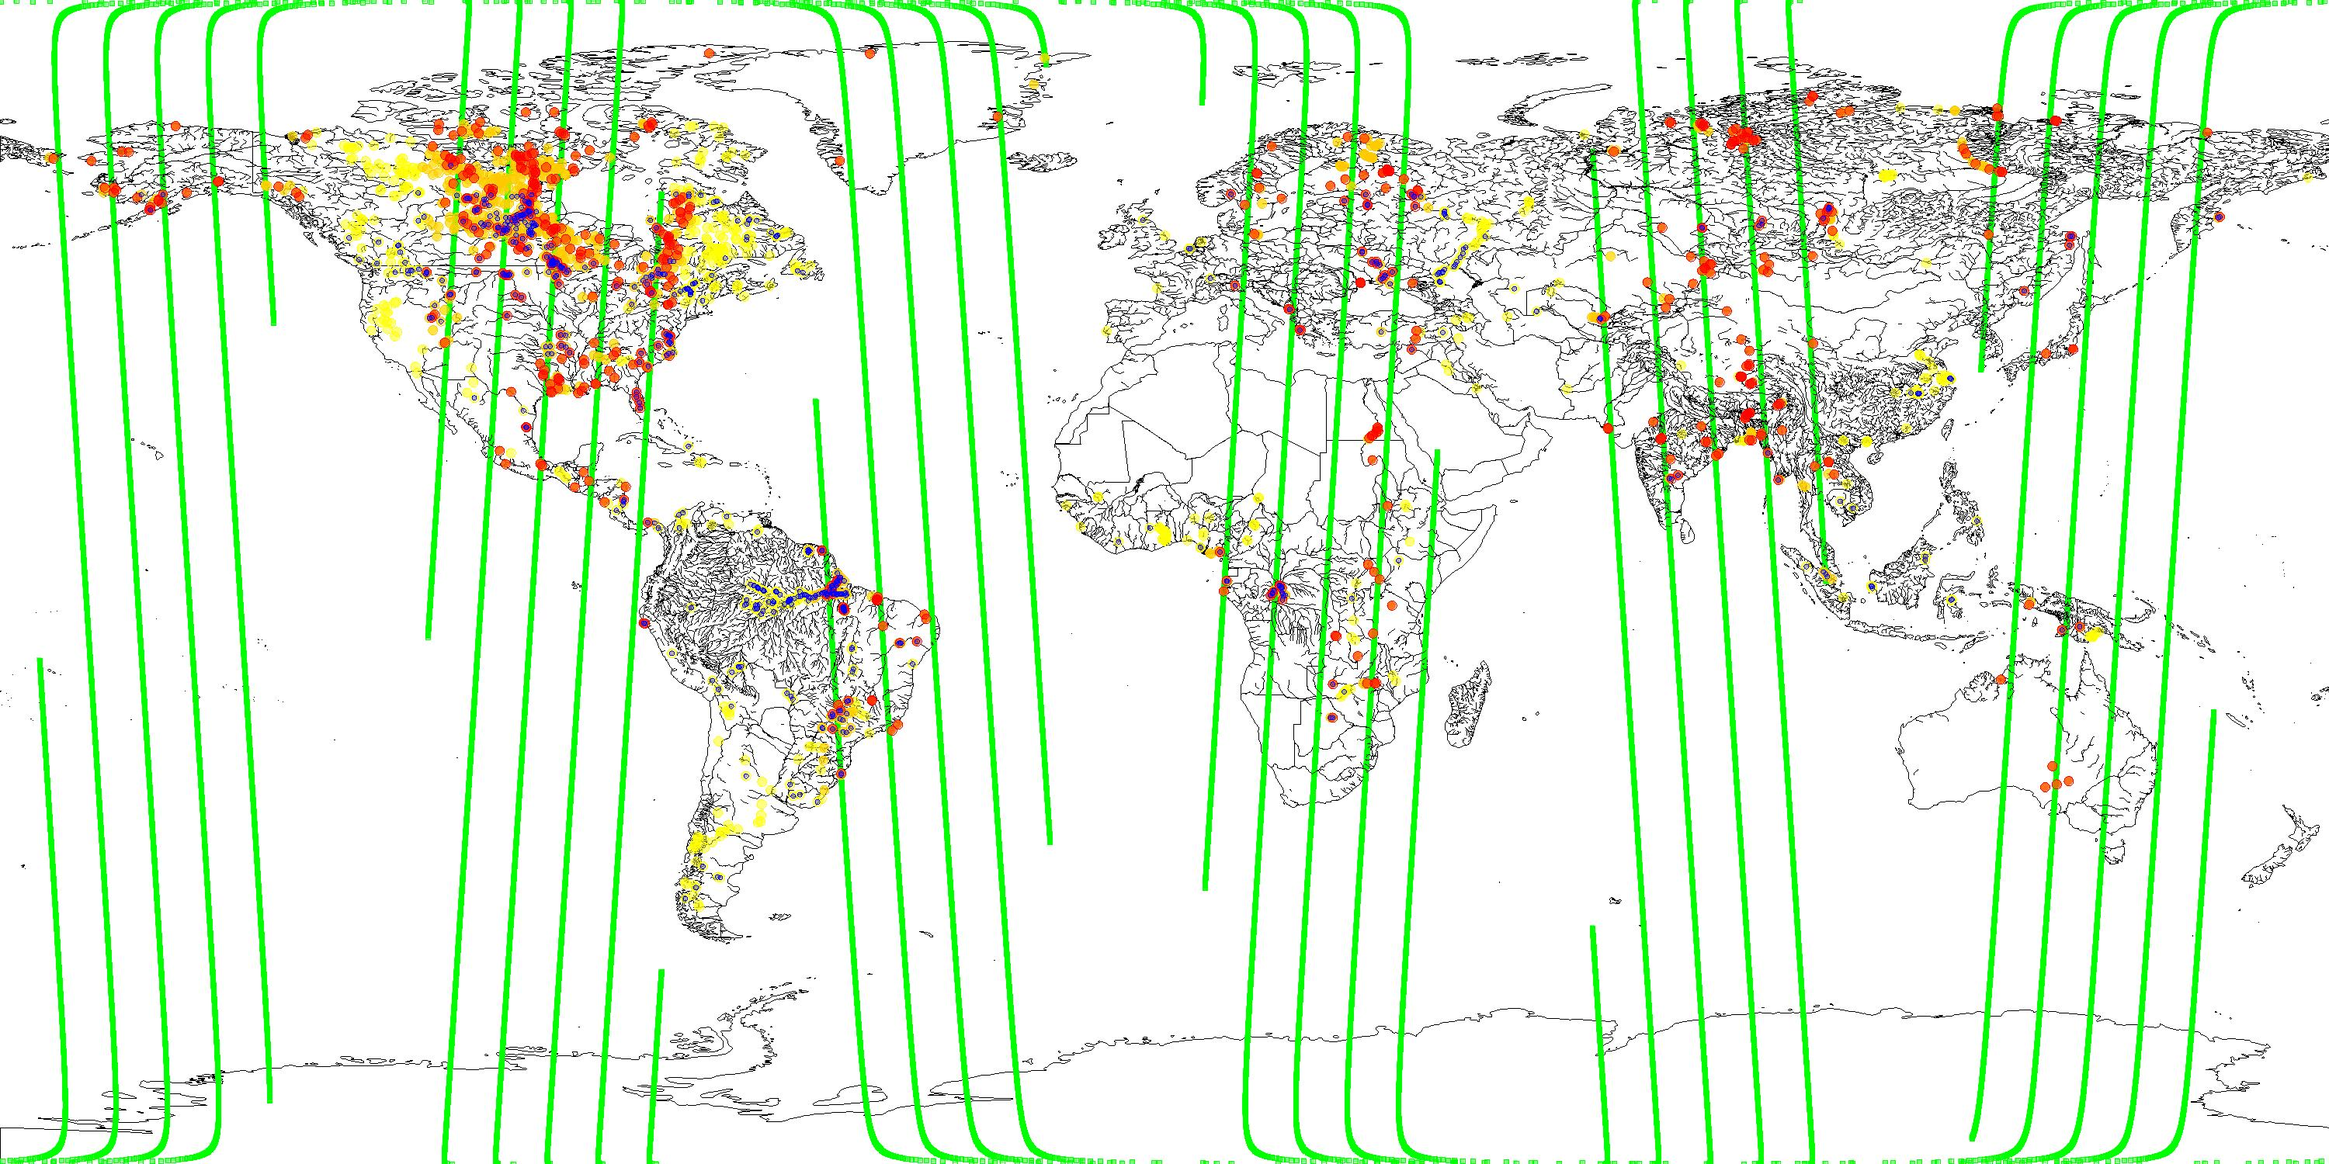
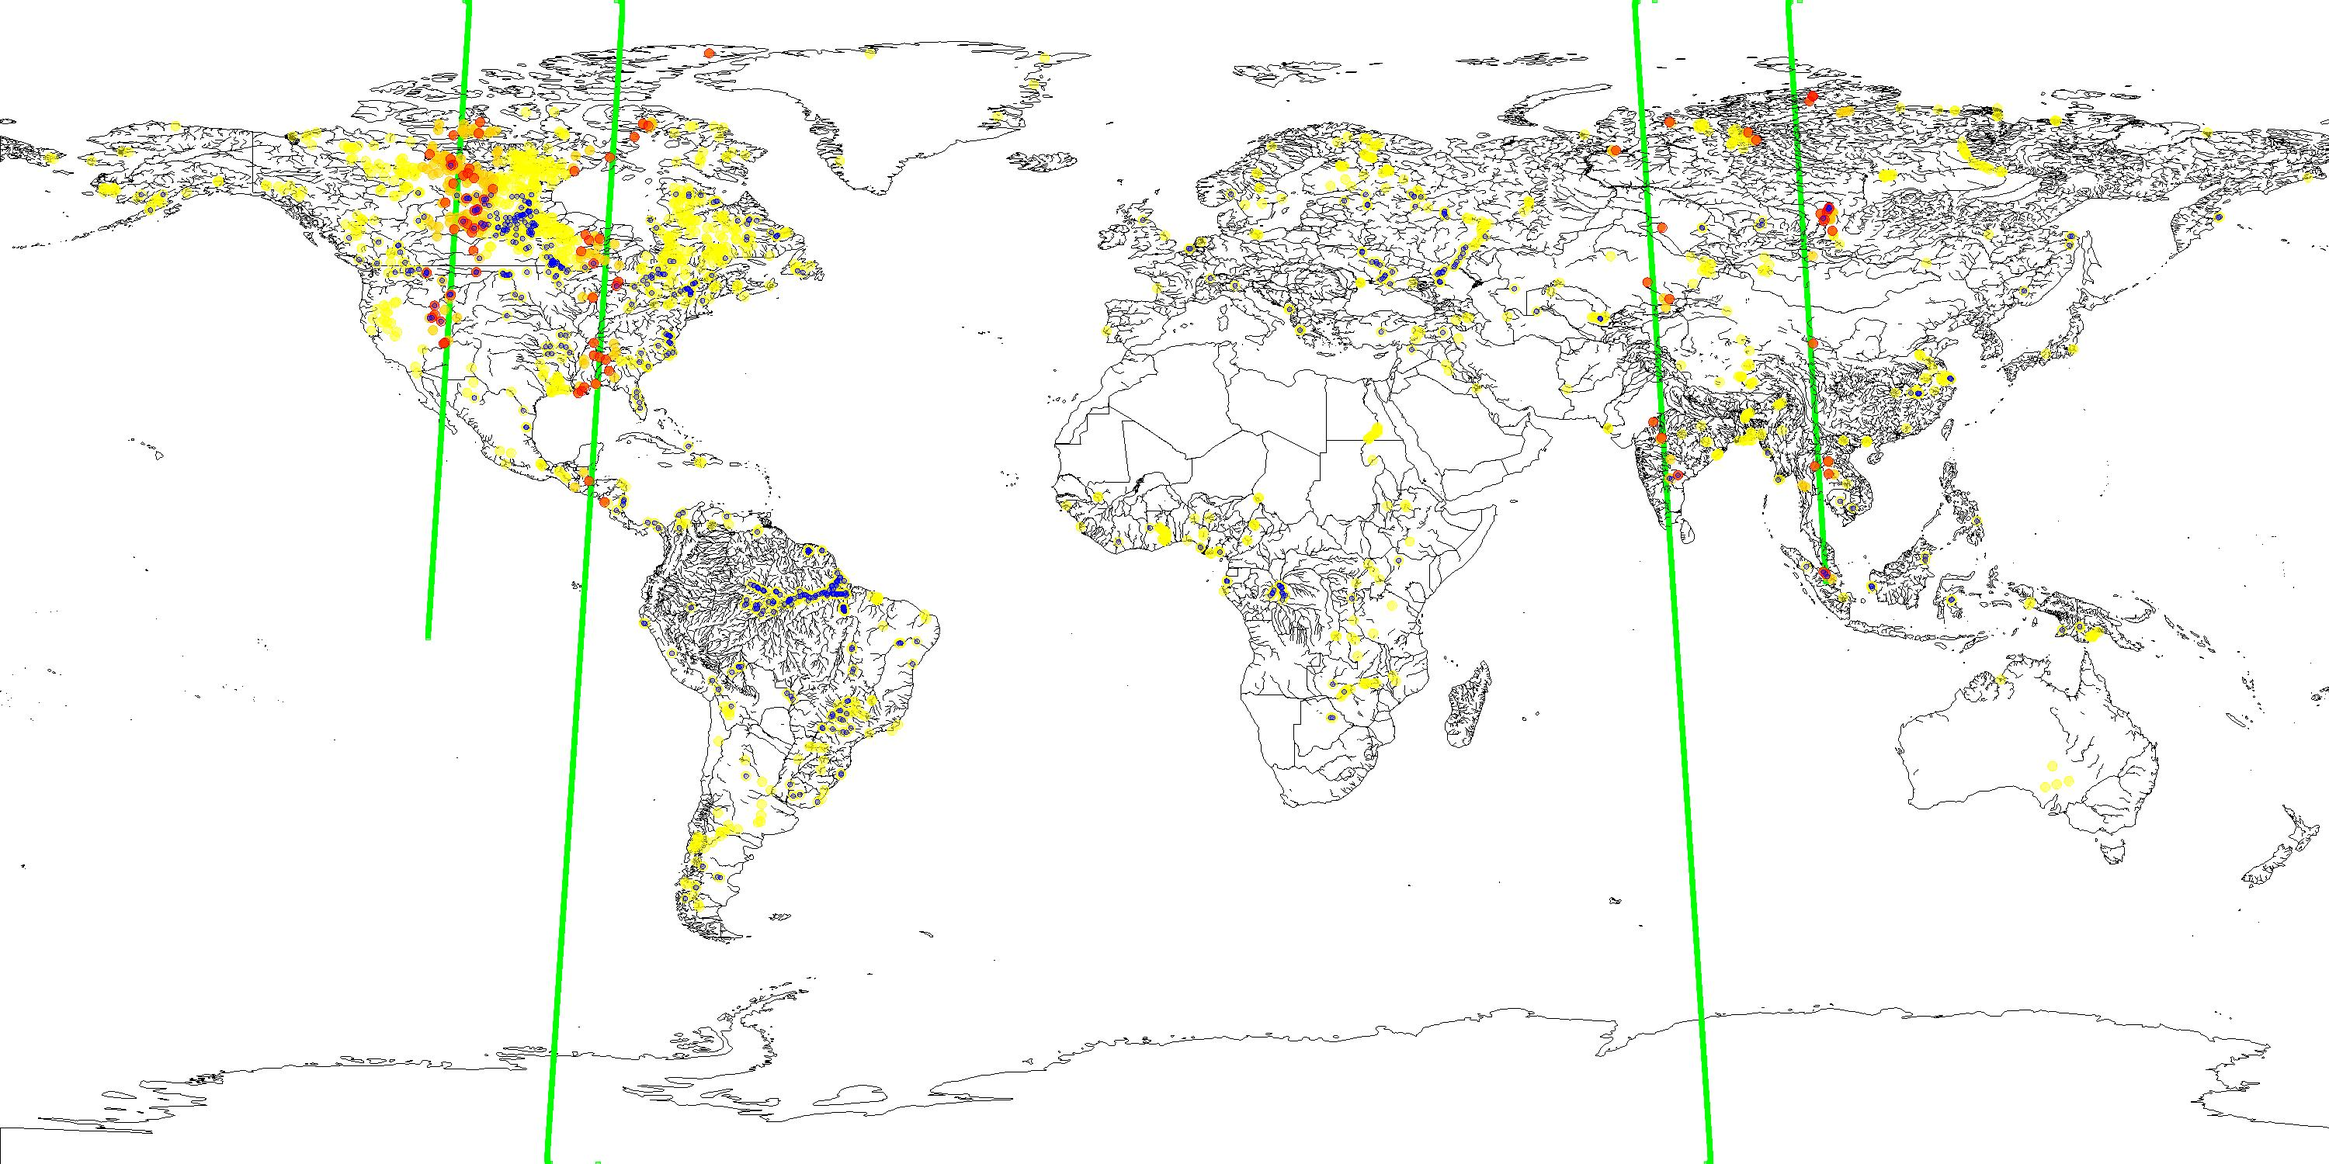
Modified SMDP to work with rain problem

diff --git a/orekit/src/main/java/seakers/orekit/SMDPPlanner.java b/orekit/src/main/java/seakers/orekit/SMDPPlanner.java
@@ -1,0 +1,208 @@
+package seakers.orekit;
+
+import org.orekit.bodies.GeodeticPoint;
+import org.orekit.frames.TopocentricFrame;
+import org.orekit.time.AbsoluteDate;
+import seakers.orekit.SMDP.ActionResult;
+import seakers.orekit.SMDP.SatelliteAction;
+import seakers.orekit.SMDP.SatelliteState;
+import seakers.orekit.SMDP.StateAction;
+import seakers.orekit.analysis.Record;
+import seakers.orekit.coverage.access.TimeIntervalArray;
+import seakers.orekit.object.Satellite;
+
+import java.util.*;
+
+public class SMDPPlanner {
+    private ArrayList<Observation> results;
+    private Satellite satellite;
+    private Collection<Record<String>> groundTrack;
+    private double duration;
+    private Map<Double,Map<GeodeticPoint,Double>> covPointRewards;
+    private Map<TopocentricFrame, TimeIntervalArray> sortedGPAccesses;
+    private TimeIntervalArray downlinks;
+    private AbsoluteDate startDate;
+    private double gamma;
+    private int dSolveInit;
+    private Map<GeodeticPoint,Double> latestRewardGrid;
+
+    public SMDPPlanner(Satellite satellite, Map<TopocentricFrame, TimeIntervalArray> sortedGPAccesses, TimeIntervalArray downlinks, AbsoluteDate startDate, Map<Double,Map<GeodeticPoint,Double>> covPointRewards, Collection<Record<String>> groundTrack, double duration) {
+        this.satellite = satellite;
+        this.sortedGPAccesses = sortedGPAccesses;
+        this.downlinks = downlinks;
+        this.startDate = startDate;
+        this.covPointRewards = covPointRewards;
+        this.groundTrack = groundTrack;
+        this.duration = duration;
+        this.gamma = 0.999;
+        this.dSolveInit = 1;
+        ArrayList<GeodeticPoint> initialImages = new ArrayList<>();
+        ArrayList<StateAction> stateActions = forwardSearch(new SatelliteState(0,0,initialImages));
+        ArrayList<Observation> observations = new ArrayList<>();
+        for (StateAction stateAction : stateActions) {
+            Observation newObs = new Observation(stateAction.getA().getLocation(),stateAction.getA().gettStart(),stateAction.getA().gettEnd(),stateAction.getA().getReward());
+            observations.add(newObs);
+        }
+        results = observations;
+    }
+
+    public ActionResult SelectAction(SatelliteState s, int dSolve){
+        if (dSolve == 0) {
+            return new ActionResult(null,0);
+        }
+        ActionResult res = new ActionResult(null,Double.NEGATIVE_INFINITY);
+        SatelliteState sCopy = new SatelliteState(s.getT(),s.gettPrevious(),s.getImages());
+        ArrayList<SatelliteAction> feasibleActions = getActionSpace(sCopy);
+        for (int a = 0; a < feasibleActions.size(); a++) {
+            double value = 0;
+            value = rewardFunction(sCopy,feasibleActions.get(a),getIncidenceAngle(feasibleActions.get(a)));
+            SatelliteState tempSatelliteState = transitionFunction(sCopy,feasibleActions.get(a));
+            ActionResult tempRes = SelectAction(tempSatelliteState,dSolve-1);
+            if(feasibleActions.get(a).gettStart()-sCopy.getT() < 0) {
+                System.out.println("time travel");
+            }
+            value = value + Math.pow(gamma,feasibleActions.get(a).gettStart()-sCopy.getT())*tempRes.getV();
+            if (value > res.getV()) {
+                res = new ActionResult(feasibleActions.get(a),value);
+            }
+        }
+        return res;
+    }
+    public ArrayList<StateAction> forwardSearch(SatelliteState initialState) {
+        ArrayList<StateAction> resultList = new ArrayList<>();
+        latestRewardGrid = covPointRewards.get(0.0);
+        ActionResult initRes = SelectAction(initialState,dSolveInit);
+        SatelliteState newSatelliteState = transitionFunction(initialState,initRes.getA());
+        resultList.add(new StateAction(initialState,initRes.getA()));
+        double value = initRes.getV();
+        double initReward = rewardFunction(newSatelliteState,initRes.getA(),getIncidenceAngle(initRes.getA()));
+        double totalScore = initReward;
+        initRes.getA().setReward(initReward);
+        System.out.println(newSatelliteState.getT());
+        System.out.println(totalScore);
+        System.out.println(resultList.size());
+        System.out.println(newSatelliteState.getImages());
+        while(value != Double.NEGATIVE_INFINITY) {
+            ActionResult res = SelectAction(newSatelliteState,dSolveInit);
+            if(res.getA()==null) {
+                break;
+            }
+            double reward = rewardFunction(newSatelliteState,res.getA(),getIncidenceAngle(res.getA()));
+            res.getA().setReward(reward);
+            totalScore = totalScore + reward;
+            newSatelliteState = transitionFunction(newSatelliteState,res.getA());
+            System.out.println(newSatelliteState.getT());
+            resultList.add(new StateAction(newSatelliteState,res.getA()));
+            value = res.getV();
+            System.out.println(totalScore);
+            System.out.println(resultList.size());
+            System.out.println(newSatelliteState.getImages());
+        }
+        return resultList;
+    }
+
+    public double rewardFunction(SatelliteState s, SatelliteAction a, double incidenceAngle){
+        GeodeticPoint gp = a.getLocation();
+        ArrayList<GeodeticPoint> newImageSet = s.getImages();
+        double score = 0;
+        if(!newImageSet.contains(gp)) {
+            score = latestRewardGrid.get(gp);
+            score = score*(1-incidenceAngle);
+            score = score*Math.pow(gamma,a.gettStart()-s.getT());
+        }
+        return score;
+    }
+
+    public SatelliteState transitionFunction(SatelliteState s, SatelliteAction a) {
+        double t = a.gettStart()+1;
+        double tPrevious = s.getT();
+        GeodeticPoint location = a.getLocation();
+        ArrayList<GeodeticPoint> newImageSet = (ArrayList<GeodeticPoint>) s.getImages().clone();
+        if(!s.getImages().contains(location)) {
+            newImageSet.add(location);
+        }
+        SatelliteState newS = new SatelliteState(t,tPrevious,newImageSet);
+        return newS;
+    }
+    public ArrayList<SatelliteAction> getActionSpace(SatelliteState s) {
+        double currentTime = s.getT();
+        double allowableTime = 15;
+        boolean satisfied = false;
+        ArrayList<SatelliteAction> possibleActions = new ArrayList<>();
+        while(!satisfied) {
+            for (TopocentricFrame tf : sortedGPAccesses.keySet()) {
+                double[] riseandsets = sortedGPAccesses.get(tf).getRiseAndSetTimesList();
+                for (int j = 0; j < riseandsets.length; j = j + 2) {
+                    if (currentTime < riseandsets[j] && riseandsets[j] < currentTime+allowableTime) {
+                        SatelliteAction action = new SatelliteAction(riseandsets[j], riseandsets[j + 1], tf.getPoint());
+                        possibleActions.add(action);
+                    }
+                }
+            }
+            if(possibleActions.size() < 5 && currentTime+allowableTime < 86400) {
+                allowableTime = allowableTime + 15;
+            } else {
+                satisfied = true;
+            }
+        }
+        return possibleActions;
+    }
+    public double getIncidenceAngle(SatelliteAction a) {
+        Map<Double, GeodeticPoint> sspMap = new HashMap<>();
+        GeodeticPoint point = a.getLocation();
+        double setTime = a.gettEnd();
+        double riseTime = a.gettStart();
+        for (Record<String> ind : groundTrack) {
+            String rawString = ind.getValue();
+            AbsoluteDate date = ind.getDate();
+            String[] splitString = rawString.split(",");
+            double latitude = Double.parseDouble(splitString[0]);
+            double longitude = Double.parseDouble(splitString[1]);
+            GeodeticPoint ssp = new GeodeticPoint(Math.toRadians(latitude),Math.toRadians(longitude),0);
+            double elapsedTime = date.durationFrom(startDate);
+            sspMap.put(elapsedTime,ssp);
+        }
+        double[] times = linspace(riseTime,setTime,(int)(setTime-riseTime));
+        if(times.length<2) {
+            times = new double[]{riseTime, setTime};
+        }
+
+        double closestDist = 100000000000000000.0;
+        for (double time : times) {
+            double closestTime = 100 * 24 * 3600; // 100 days
+            GeodeticPoint closestPoint = null;
+            for (Double sspTime : sspMap.keySet()) {
+                if (Math.abs(sspTime - time) < closestTime) {
+                    closestTime = Math.abs(sspTime - time);
+                    closestPoint = sspMap.get(sspTime);
+                    double dist = Math.sqrt(Math.pow(LLAtoECI(closestPoint)[0] - LLAtoECI(point)[0], 2) + Math.pow(LLAtoECI(closestPoint)[1] - LLAtoECI(point)[1], 2) + Math.pow(LLAtoECI(closestPoint)[2] - LLAtoECI(point)[2], 2));
+                    if (dist < closestDist) {
+                        closestDist = dist;
+                    }
+                }
+            }
+        }
+        return Math.atan2(closestDist,(satellite.getOrbit().getA()-6370000)/1000);
+    }
+
+    public double[] LLAtoECI(GeodeticPoint point) {
+        double re = 6370;
+        double x = re * Math.cos(point.getLatitude()) * Math.cos(point.getLongitude());
+        double y = re * Math.cos(point.getLatitude()) * Math.sin(point.getLongitude());
+        double z = re * Math.sin(point.getLatitude());
+        double[] result = {x,y,z};
+        return result;
+    }
+
+    public double[] linspace(double min, double max, int points) {
+        double[] d = new double[points];
+        for (int i = 0; i < points; i++){
+            d[i] = min + i * (max - min) / (points - 1);
+        }
+        return d;
+    }
+
+    public ArrayList<Observation> getResults() {
+        return results;
+    }
+}

diff --git a/orekit/src/main/java/seakers/orekit/XPlanner.java b/orekit/src/main/java/seakers/orekit/XPlanner.java
@@ -201,18 +201,22 @@ public class XPlanner {
         OrekitConfig.end();
         ArrayList<ArrayList<Observation>> individualPlans = new ArrayList<>();
         ArrayList<Observation> allObservations = new ArrayList<>();
+
         for (Satellite imager : imagers) {
             Map<TopocentricFrame, TimeIntervalArray> sortedGPAccesses = satelliteGPContacts.get(imager);
             TimeIntervalArray downlinks = downlinkOpps.get(imager);
-            //ArrayList<Observation> planOutput = greedyPlanner(imager,sortedGPAccesses,downlinks,startDate,covPointRewards,getGroundTrack(imager.getOrbit(),duration,startDate));
-            ArrayList<Observation> planOutput = smarterGreedyPlanner(imager,sortedGPAccesses,downlinks,startDate,covPointRewards,getGroundTrack(imager.getOrbit(),duration,startDate),duration);
-            //ArrayList<Observation> planOutput = nadirEval(imager,sortedGPAccesses,downlinks,startDate,covPointRewards,getGroundTrack(imager.getOrbit(),duration,startDate));
-            individualPlans.add(planOutput);
-            allObservations.addAll(planOutput);
+            Collection<Record<String>> groundTrack = getGroundTrack(imager.getOrbit(),duration,startDate);
+            SMDPPlanner smdpPlanner = new SMDPPlanner(imager,sortedGPAccesses,downlinks,startDate,covPointRewards,groundTrack,duration);
+            ArrayList<Observation> smdpOutput = smdpPlanner.getResults();
+            //ArrayList<Observation> planOutput = greedyPlanner(imager,sortedGPAccesses,downlinks,startDate,covPointRewards,groundTrack,);
+            //ArrayList<Observation> planOutput = smarterGreedyPlanner(imager,sortedGPAccesses,downlinks,startDate,covPointRewards,groundTrack,duration);
+            //ArrayList<Observation> planOutput = nadirEval(imager,sortedGPAccesses,downlinks,startDate,covPointRewards,groundTrack);
+            individualPlans.add(smdpOutput);
+            allObservations.addAll(smdpOutput);
         }
         ArrayList<GeodeticPoint> observedGPs = new ArrayList<>();
         for(Observation obs : allObservations) {
-            observedGPs.add(obs.getObservationPoint().getPoint());
+            observedGPs.add(obs.getObservationPoint());
             System.out.println(obs.toString());
         }
         processGroundTracks(imagers,greedyPlannerFilePath+"groundtracks.shp",startDate,duration);
@@ -330,7 +334,7 @@ public class XPlanner {
             }
             recentTFs.add(bestTF);
             totalreward = totalreward + maximum;
-            Observation obs = new Observation(bestTF,bestRiseTime,bestSetTime,maximum);
+            Observation obs = new Observation(bestTF.getPoint(),bestRiseTime,bestSetTime,maximum);
             observations.add(obs);
             currentTime = bestSetTime;
             System.out.println(energy/3600);
@@ -360,7 +364,7 @@ public class XPlanner {
             double riseTime = sortedAccesses.get(tf).getRiseAndSetTimesList()[0];
             double setTime = sortedAccesses.get(tf).getRiseAndSetTimesList()[1];
             double reward = rewardFunction(tf,getIncidenceAngle(tf.getPoint(),riseTime,setTime,startDate,satellite,groundTrack),latestRewardGrid);
-            Observation obs = new Observation(tf,riseTime,setTime,reward);
+            Observation obs = new Observation(tf.getPoint(),riseTime,setTime,reward);
             observations.add(obs);
             totalreward = totalreward + reward;
         }
@@ -454,7 +458,7 @@ public class XPlanner {
             }
             recentTFs.add(bestTF);
             totalreward = totalreward + trueReward;
-            Observation obs = new Observation(bestTF,bestRiseTime,bestSetTime,trueReward);
+            Observation obs = new Observation(bestTF.getPoint(),bestRiseTime,bestSetTime,trueReward);
             observations.add(obs);
             currentTime = bestSetTime;
             System.out.println(energy/3600);
@@ -926,13 +930,13 @@ public class XPlanner {
             map.addLayer(generatePointLayer(overlapFilePath+"possible.shp",Color.ORANGE,0.5f,12.0f));
             map.addLayer(generatePointLayer(overlapFilePath+"observed.shp",Color.RED,0.5f,12.0f));
             map.addLayer(generatePointLayer(overlapFilePath+"rainupdated.shp",Color.BLUE,0.3f,6.0f));
-            File rasterFile = new File("rainfall.hdf5");
-            AbstractGridFormat format = GridFormatFinder.findFormat(rasterFile);
-            // this is a bit hacky but does make more geotiffs work
-            GridCoverage2DReader reader = format.getReader(rasterFile);
-            Style rasterStyle = createGreyscaleStyle(1);
-            Layer rasterLayer = new GridReaderLayer(reader, rasterStyle);
-            map.addLayer(rasterLayer);
+//            File rasterFile = new File("./rainfall.hdf5");
+//            AbstractGridFormat format = GridFormatFinder.findFormat(rasterFile);
+//            // this is a bit hacky but does make more geotiffs work
+//            GridCoverage2DReader reader = format.getReader(rasterFile);
+//            Style rasterStyle = createGreyscaleStyle(1);
+//            Layer rasterLayer = new GridReaderLayer(reader, rasterStyle);
+//            map.addLayer(rasterLayer);
 
             JMapFrame.showMap(map);
             saveImage(map, "planner_map.jpeg",3000);

diff --git a/orekit/src/main/java/seakers/orekit/Observation.java b/orekit/src/main/java/seakers/orekit/Observation.java
@@ -1,13 +1,13 @@
 package seakers.orekit;
 
-import org.orekit.frames.TopocentricFrame;
+import org.orekit.bodies.GeodeticPoint;
 
 public class Observation {
-    private TopocentricFrame observationPoint;
+    private GeodeticPoint observationPoint;
     private double observationStart;
     private double observationEnd;
     private double observationReward;
-    public Observation(TopocentricFrame observationPoint, double observationStart, double observationEnd, double observationReward) {
+    public Observation(GeodeticPoint observationPoint, double observationStart, double observationEnd, double observationReward) {
         this.observationPoint = observationPoint;
         this.observationStart = observationStart;
         this.observationEnd = observationEnd;
@@ -22,7 +22,7 @@ public class Observation {
     public double getObservationReward() {
         return observationReward;
     }
-    public TopocentricFrame getObservationPoint() {
+    public GeodeticPoint getObservationPoint() {
         return observationPoint;
     }
     public void setObservationStart(double observationStart) {
@@ -34,11 +34,11 @@ public class Observation {
     public void setObservationReward(double observationReward) {
         this.observationReward = observationReward;
     }
-    public void setObservationPoint(TopocentricFrame observationPoint) {
+    public void setObservationPoint(GeodeticPoint observationPoint) {
         this.observationPoint = observationPoint;
     }
     public String toString() {
-        return this.observationPoint.getPoint().toString()+", Observation Start: "+this.observationStart+", Observation End: "+this.observationEnd+", Observation Reward: "+this.observationReward;
+        return this.observationPoint.toString()+", Observation Start: "+this.observationStart+", Observation End: "+this.observationEnd+", Observation Reward: "+this.observationReward;
     }
 
 }

diff --git a/orekit/src/main/java/seakers/orekit/SMDP/SatelliteAction.java b/orekit/src/main/java/seakers/orekit/SMDP/SatelliteAction.java
@@ -6,12 +6,18 @@ public class SatelliteAction {
     private double tStart;
     private double tEnd;
     private GeodeticPoint location;
+    private double reward;
     public SatelliteAction (double tStart, double tEnd, GeodeticPoint location) {
         this.tStart = tStart;
         this.tEnd = tEnd;
         this.location = location;
+        this.reward = 0;
     }
     public double gettStart(){ return tStart; }
     public double gettEnd(){ return tEnd; }
     public GeodeticPoint getLocation() { return location; }
+    public double getReward() { return reward; }
+    public void setReward(double reward) {
+        this.reward = reward;
+    }
 }
